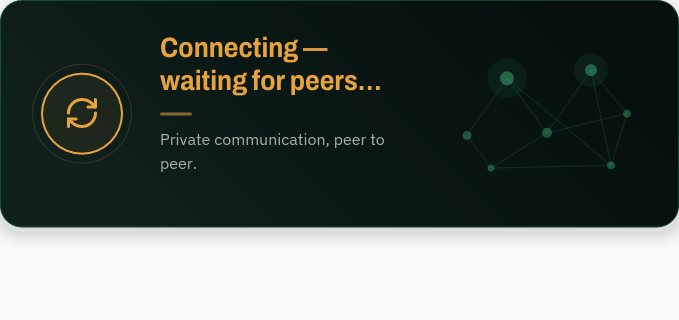
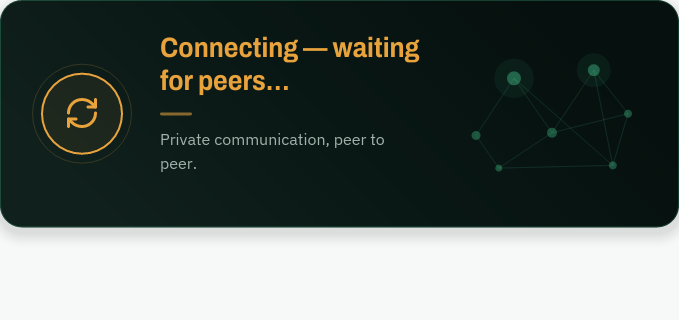
fix(ui): protect the status-card text column, word-only wrapping (CONN-03)
The horizontal tiers now give the text column a guaranteed minimum width:
- Add STATUS_CARD_TEXT_MIN_WIDTH (260px Full / 240px Medium) and
  STATUS_CARD_MESH_MAX_WIDTH (190px) constants.
- New horizontal_mesh_width(): the decorative mesh gets only the leftover
  space AFTER the text minimum is satisfied, bounded [0, 190] — the spec's
  'auto minmax(260px,1fr) minmax(150px,190px)' model. The mesh yields
  (down to 0) before the heading is ever squeezed below ~240px.
- Bound the nominal Full/Medium mesh width at 190px (was 250/200).
- Heading spans use Wrapping::Word instead of WordOrGlyph so words such as
  'connected'/'ready' can never break character-by-character.
- Regression tests sweep the spec's manual test widths (400..1215px) and
  assert the text column never drops below its tier minimum and the mesh
  never exceeds 190px; refreshed the offscreen baseline captures.

diff --git a/examples/iced_chat/status_card.rs b/examples/iced_chat/status_card.rs
@@ -54,6 +54,21 @@ pub(crate) const STATUS_CARD_MEDIUM_CONTENT: f32 = 760.0;
 /// the network graphic below).
 pub(crate) const STATUS_CARD_NARROW_CONTENT: f32 = 520.0;
 
+/// Minimum width the text (heading/description) column is guaranteed in the
+/// Full tier. Mirrors the spec's `minmax(260px, 1fr)` text column — the
+/// heading must never be squeezed below ~260px while a horizontal layout is
+/// active (spec sections 2, 3, 18).
+pub(crate) const STATUS_CARD_TEXT_MIN_WIDTH: f32 = 260.0;
+/// Same guarantee for the Medium tier. The spec's MODE B keeps the text
+/// area at roughly 220-260px; 240 is the mid-band floor so the mesh still
+/// has room to stay visible at the bottom of the band.
+const STATUS_CARD_TEXT_MIN_WIDTH_MEDIUM: f32 = 240.0;
+/// Upper bound for the decorative mesh in the horizontal tiers (spec MODE A
+/// graph 170-190px). The mesh must NEVER consume width the heading needs:
+/// it only gets the leftover after the text minimum is satisfied.
+/// CONN-05 tunes the exact graph size; this card only enforces the bound.
+pub(crate) const STATUS_CARD_MESH_MAX_WIDTH: f32 = 190.0;
+
 /// Amber accent for connecting / degraded states on the dark panel.
 const STATUS_WARNING: Color = Color::from_rgb(
     0xE8 as f32 / 255.0,
@@ -127,7 +142,16 @@ pub(crate) fn view_status_card(
         Space::new().height(Length::Fixed(0.0)).into()
     };
 
-    let network = network_mesh(dep, tier);
+    // The decorative mesh yields before the text column: in the horizontal
+    // tiers its width is the leftover AFTER the text minimum is satisfied
+    // (bounded to [0, STATUS_CARD_MESH_MAX_WIDTH]); the narrow stacked tier
+    // keeps the fixed per-tier size.
+    let network = match tier {
+        Tier::Full | Tier::Medium => {
+            network_mesh(dep, tier, horizontal_mesh_width(dep.content_width, tier))
+        }
+        Tier::Narrow => network_mesh(dep, tier, network_size(tier).0),
+    };
 
     let body: iced::Element<'static, AppMessage> = match tier {
         Tier::Full | Tier::Medium => {
@@ -328,7 +352,7 @@ fn status_heading(
                 .size(size)
                 .color(design_tokens::STATUS_PRIMARY_TEXT)
                 .width(Length::Fill)
-                .wrapping(iced::widget::text::Wrapping::WordOrGlyph),
+                .wrapping(iced::widget::text::Wrapping::Word),
             )
             .spacing(0)
             .align_y(Alignment::Center)
@@ -343,7 +367,7 @@ fn status_heading(
         .size(size)
         .color(variant_accent(dep.variant))
         .width(Length::Fill)
-        .wrapping(iced::widget::text::Wrapping::WordOrGlyph)
+        .wrapping(iced::widget::text::Wrapping::Word)
         .into()
     }
 }
@@ -424,27 +448,55 @@ fn actions_row(show_retry: bool, show_details: bool) -> iced::Element<'static, A
     row.into()
 }
 
-/// Size of the network mesh per layout tier (width, height).
+/// Size of the network mesh per layout tier (width, height). The
+/// horizontal tiers cap the width at [`STATUS_CARD_MESH_MAX_WIDTH`] — the
+/// exact value used in the row comes from [`horizontal_mesh_width`] (the
+/// mesh yields space to the text column); this only bounds the nominal
+/// size. The narrow stacked tier keeps its own fixed size.
 fn network_size(tier: Tier) -> (f32, f32) {
     match tier {
-        Tier::Full => (250.0, 170.0),
-        Tier::Medium => (200.0, 136.0),
+        Tier::Full => (STATUS_CARD_MESH_MAX_WIDTH, 170.0),
+        Tier::Medium => (STATUS_CARD_MESH_MAX_WIDTH, 136.0),
         Tier::Narrow => (190.0, 130.0),
     }
 }
 
-/// Build the native canvas peer-to-peer mesh for the current tier.
+/// Width of the decorative mesh in the horizontal (Full/Medium) tiers.
+///
+/// Implements the spec's `auto minmax(260px, 1fr) minmax(150px, 190px)`
+/// grid for the card's row: the icon keeps its fixed size, the text
+/// column is flexible but never below its guaranteed minimum, and the
+/// mesh gets only the REMAINDER after that minimum is satisfied — bounded
+/// to `[0, STATUS_CARD_MESH_MAX_WIDTH]`. When space is tight the mesh
+/// shrinks (and can reach 0) instead of starving the heading (spec
+/// section 11 priority order: heading > description > pill > graph).
+fn horizontal_mesh_width(content_width: f32, tier: Tier) -> f32 {
+    let (text_min, icon_text_gap, text_graph_gap) = match tier {
+        Tier::Full => (STATUS_CARD_TEXT_MIN_WIDTH, 32.0, 40.0),
+        _ => (STATUS_CARD_TEXT_MIN_WIDTH_MEDIUM, 28.0, 32.0),
+    };
+    // Card inner width = content width minus the card's 32px padding.
+    let inner = (content_width - 2.0 * design_tokens::SPACE_32).max(0.0);
+    let fixed =
+        design_tokens::STATUS_INDICATOR_SIZE + icon_text_gap + text_graph_gap;
+    let space = (inner - fixed).max(0.0);
+    (space - text_min).clamp(0.0, STATUS_CARD_MESH_MAX_WIDTH)
+}
+
+/// Build the native canvas peer-to-peer mesh at the given width (the
+/// height comes from the tier's nominal size).
 fn network_mesh(
     dep: &StatusCardDependency,
     tier: Tier,
+    width: f32,
 ) -> iced::Element<'static, AppMessage> {
-    let (w, h) = network_size(tier);
+    let (_, h) = network_size(tier);
     canvas(NetworkMesh {
         pulse: dep.pulse_frame % STATUS_CARD_PULSE_PHASES,
         animate: dep.animate_mesh,
         dimmed: dep.dimmed_mesh,
     })
-    .width(Length::Fixed(w))
+    .width(Length::Fixed(width))
     .height(Length::Fixed(h))
     .into()
 }
@@ -713,6 +765,85 @@ mod tests {
             let (w, h) = network_size(tier);
             assert!(w > 0.0 && h > 0.0, "{tier:?} network size must be positive");
         }
+        // CONN-03: the horizontal tiers' nominal mesh width must respect
+        // the 190px bound (spec MODE A graph 170-190px; the exact size is
+        // CONN-05's job — this card never exceeds the bound).
+        for tier in [Tier::Full, Tier::Medium] {
+            let (w, _) = network_size(tier);
+            assert!(
+                w <= STATUS_CARD_MESH_MAX_WIDTH + f32::EPSILON,
+                "{tier:?} mesh width {w} exceeds the {STATUS_CARD_MESH_MAX_WIDTH}px bound"
+            );
+        }
+    }
+
+    #[test]
+    fn text_column_keeps_minimum_width_in_horizontal_tiers() {
+        // CONN-03 spec sections 2/3/18: while ANY horizontal layout is
+        // active the heading must never be squeezed below ~220-260px.
+        // Sweep the tier boundary bands (the spec's manual test widths:
+        // 400/450/500/550/600/700/800/900+). For every width that selects
+        // a horizontal tier, the mesh must yield enough space that the
+        // text column (icon + gaps + mesh removed from the card inner
+        // width) stays at or above its tier minimum.
+        let widths = [
+            400.0, 450.0, 500.0, 520.0, 550.0, 560.0, 600.0, 650.0, 700.0,
+            759.0, 760.0, 800.0, 900.0, 1024.0, 1215.0,
+        ];
+        for width in widths {
+            let tier = layout_tier(width);
+            if tier == Tier::Narrow {
+                // Stacked layout — no horizontal text minimum applies.
+                continue;
+            }
+            let (text_min, icon_gap, graph_gap) = match tier {
+                Tier::Full => (STATUS_CARD_TEXT_MIN_WIDTH, 32.0, 40.0),
+                _ => (STATUS_CARD_TEXT_MIN_WIDTH_MEDIUM, 28.0, 32.0),
+            };
+            let mesh_w = horizontal_mesh_width(width, tier);
+            let inner = width - 2.0 * design_tokens::SPACE_32;
+            let text_w =
+                inner - design_tokens::STATUS_INDICATOR_SIZE - icon_gap - graph_gap - mesh_w;
+            assert!(
+                text_w + 0.01 >= text_min,
+                "at card width {width}px ({tier:?}) the text column is {text_w}px \
+                 but must stay >= {text_min}px (mesh took {mesh_w}px)"
+            );
+            assert!(
+                mesh_w <= STATUS_CARD_MESH_MAX_WIDTH + 0.01,
+                "at card width {width}px ({tier:?}) the mesh ({mesh_w}px) exceeds the \
+                 {STATUS_CARD_MESH_MAX_WIDTH}px bound"
+            );
+        }
+    }
+
+    #[test]
+    fn mesh_yields_before_text_when_space_is_tight() {
+        // At the bottom of the Medium band (520px) the decorative mesh
+        // must shrink well below its cap so the text keeps its minimum —
+        // the spec's priority order (heading > description > pill > graph).
+        let tight = horizontal_mesh_width(520.0, Tier::Medium);
+        assert!(
+            tight > 0.0 && tight < STATUS_CARD_MESH_MAX_WIDTH,
+            "at 520px the mesh should shrink ({tight}px) but stay visible"
+        );
+        let text_at_tight = 520.0
+            - 2.0 * design_tokens::SPACE_32
+            - design_tokens::STATUS_INDICATOR_SIZE
+            - 28.0
+            - 32.0
+            - tight;
+        assert!(
+            text_at_tight + 0.01 >= STATUS_CARD_TEXT_MIN_WIDTH_MEDIUM,
+            "text {text_at_tight}px must keep the Medium minimum"
+        );
+        // At a wide Full tier the mesh hits its cap and the text takes all
+        // remaining space.
+        let wide = horizontal_mesh_width(1215.0, Tier::Full);
+        assert!(
+            (wide - STATUS_CARD_MESH_MAX_WIDTH).abs() < 0.01,
+            "at 1215px the mesh should be capped at {STATUS_CARD_MESH_MAX_WIDTH}px, got {wide}px"
+        );
     }
 
     #[test]
